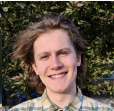
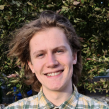
Optimised headshots, team member blurb styling and side-scrolling drag-to-scroll pillars

diff --git a/src/routes/team.svelte b/src/routes/team.svelte
@@ -1,11 +1,49 @@
 <script lang="ts">
   import Menu from '$lib/menu/Menu.svelte';
   import MenuIcon from '$lib/menu/MenuIcon.svelte';
+  import { MacScrollbar } from 'fractils';
 
   let menuOpen = false;
 
   let closeMenu = () => (menuOpen = false);
+
+  let side_scroll;
+
+  let pos = { top: 0, left: 0, x: 0, y: 0 };
+
+  const mouseDownHandler = (e: MouseEvent) => {
+    pos = {
+      left: side_scroll.scrollLeft,
+      top: side_scroll.scrollTop,
+      x: e.clientX,
+      y: e.clientY,
+    };
+
+    side_scroll.style.cursor = 'grabbing';
+    side_scroll.style.userSelect = 'none';
+
+    document.addEventListener('mousemove', mouseMoveHandler);
+    document.addEventListener('mouseup', mouseUpHandler);
+  };
+
+  const mouseMoveHandler = (e: MouseEvent) => {
+    const dx = e.clientX - pos.x;
+    const dy = e.clientY - pos.y;
+
+    side_scroll.scrollTop = pos.top - dy;
+    side_scroll.scrollLeft = pos.left - dx;
+  };
+
+  const mouseUpHandler = (e: MouseEvent) => {
+    document.removeEventListener('mousemove', mouseMoveHandler);
+    document.removeEventListener('mouseup', mouseUpHandler);
+
+    side_scroll.style.cursor = 'grab';
+    side_scroll.style.removeProperty('user-select');
+  };
 </script>
+
+<MacScrollbar root={side_scroll} disabled={false} />
 
 <div class="w-full h-0 fixed inset-0 flex flex-col justify-between z-50">
   <div
@@ -32,7 +70,9 @@
 
 <Menu open={menuOpen} {closeMenu} />
 
-<div class="w-full flex space-x-8 items-start justify-center p-16 py-96">
+<div
+  class="w-full h-screen flex space-x-8 items-center justify-center p-16 py-96"
+>
   <h1 class="text-3xl xl:text-8xl uppercase font-light text-right">
     Who we <br /> are
   </h1>
@@ -43,16 +83,127 @@
 
 <div class="min-h-screen w-full flex flex-col">
   <div class="flex w-full flex-grow items-center justify-center">
-    <p>test</p>
-  </div>
-  <div class="w-full flex justify-center">
-    <div class="flex space-x-12 items-end">
-      <div class="h-96 w-64 rounded-t-full bg-[#ff5470]" />
-      <div class="h-72 w-64 rounded-t-full bg-[#ff5470]" />
-      <div class="h-80 w-64 rounded-t-full bg-[#ff5470]" />
-      <div class="h-64 w-64 rounded-t-full bg-[#ff5470]" />
-      <div class="h-64 w-64 rounded-t-full bg-[#ff5470]" />
+    <div class="flex w-full max-w-[800px] divide-x py-32">
+      <div class="flex flex-col space-y-8 px-16 items-start">
+        <div class="flex flex-col">
+          <h2 class="text-lg xl:text-3xl">Idan Gal Sohet</h2>
+          <p>Branding and Communications</p>
+        </div>
+        <p class="text-lg xl:text-xl text-justify">
+          Idan combines design, engineering and marketing approaches, ensuring
+          solutions have a powerful identity that reaches and impacts the
+          intended audience.
+        </p>
+      </div>
+
+      <div
+        class="flex flex-col space-y-8 px-16 items-center justify-center flex-shrink-0"
+      >
+        <h2>Brand Development</h2>
+        <h2>Communications</h2>
+        <h2>Graphic Design</h2>
+      </div>
     </div>
   </div>
-  <div class="w-full h-64 bg-[#ff5470]" />
+
+  <div
+    bind:this={side_scroll}
+    on:mousedown={mouseDownHandler}
+    class="w-full overflow-x-auto cursor-grab flex justify-center"
+  >
+    <div class="flex flex-col">
+      <div class="flex w-full space-x-16 items-end px-8">
+        <div
+          class="h-96 min-w-[220px] flex-grow w-full flex-1 rounded-t-full bg-[#ff5470] p-1"
+        >
+          <img
+            src="/headshots/webp/freya_smith.webp"
+            alt="Face"
+            class="w-full rounded-full"
+          />
+        </div>
+
+        <div
+          class="h-96 min-w-[220px] flex-grow w-full flex-1 rounded-t-full bg-[#ff5470] p-1"
+        >
+          <img
+            src="/headshots/webp/harika.webp"
+            alt="Face"
+            class="w-full rounded-full"
+          />
+        </div>
+
+        <div
+          class="h-96 min-w-[220px] flex-grow w-full flex-1 rounded-t-full bg-[#ff5470] p-1"
+        >
+          <img
+            src="/headshots/webp/idan.webp"
+            alt="Face"
+            class="w-full rounded-full"
+          />
+        </div>
+
+        <div
+          class="h-96 min-w-[220px] flex-grow w-full flex-1 rounded-t-full bg-[#ff5470] p-1"
+        >
+          <img
+            src="/headshots/webp/jessica_riley.webp"
+            alt="Face"
+            class="w-full rounded-full"
+          />
+        </div>
+
+        <div
+          class="h-96 min-w-[220px] flex-grow w-full flex-1 rounded-t-full bg-[#ff5470] p-1"
+        >
+          <img
+            src="/headshots/webp/julian.webp"
+            alt="Face"
+            class="w-full rounded-full"
+          />
+        </div>
+
+        <div
+          class="h-96 min-w-[220px] flex-grow w-full flex-1 rounded-t-full bg-[#ff5470] p-1"
+        >
+          <img
+            src="/headshots/webp/leo_planck.webp"
+            alt="Face"
+            class="w-full rounded-full"
+          />
+        </div>
+
+        <div
+          class="h-96 min-w-[220px] flex-grow w-full flex-1 rounded-t-full bg-[#ff5470] p-1"
+        >
+          <img
+            src="/headshots/webp/marco.webp"
+            alt="Face"
+            class="w-full rounded-full"
+          />
+        </div>
+
+        <div
+          class="h-96 min-w-[220px] flex-grow w-full flex-1 rounded-t-full bg-[#ff5470] p-1"
+        >
+          <img
+            src="/headshots/webp/martin_lombard.webp"
+            alt="Face"
+            class="w-full rounded-full"
+          />
+        </div>
+
+        <div
+          class="h-96 min-w-[220px] flex-grow w-full flex-1 rounded-t-full bg-[#ff5470] p-1"
+        >
+          <img
+            src="/headshots/webp/oscar_leclercq.webp"
+            alt="Face"
+            class="w-full rounded-full"
+          />
+        </div>
+      </div>
+      <div class="w-full h-32 bg-[#ff5470]" />
+    </div>
+  </div>
 </div>
